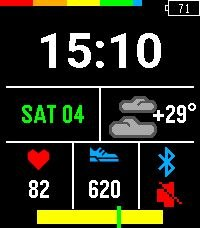
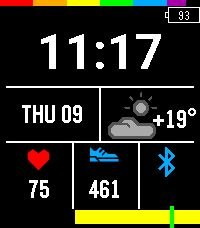
daylight bar: hour ticks, helper functions, AGENTS.md
- Replace inline daylight bar drawing with dedicated draw_daylight_bar()
  with helper functions time_to_min() and daybar_tick_x()
- Add 12 hour tick marks at :00 of each hour, black on yellow segment
  and yellow on dark segment, drawn on top of the green marker
- Switch rainbow final segment to GColorImperialPurple (dark purple
  #550055) — the former ARGB(155,77,255) produced light lavender
  that looked near-white on real hardware
- Remove init_weather_timer_handler (was duplicating the first fetch
  by bypassing weather_due gate — the immediate-on-subscribe tick
  already handles the initial geolocate)
- Add AGENTS.md with project architecture, weather protocol, drawing
  conventions, SDK reference, and known quirks

diff --git a/src/c/main.c b/src/c/main.c
@@ -131,6 +131,54 @@ static void draw_bitmap(GContext *ctx, GBitmap *bm, int x, int y) {
   graphics_context_set_compositing_mode(ctx, GCompOpAssign);
 }
 
+// ---- Daylight bar helpers ----
+
+// Convert hour + minute to minutes from midnight.
+static int time_to_min(int hour, int minute) {
+  return hour * 60 + minute;
+}
+
+// X-pixel position of a time (in minutes from midnight) within the
+// 12-hour (720-minute) daylight window starting at win_start.
+// Returns [0, W-1].
+static int daybar_tick_x(int time_min, int win_start) {
+  return clamp_int(round_div((time_min - win_start) * W, 720), 0, W - 1);
+}
+
+// Draw the full daylight bar: greyD background, yellow day-range,
+// green current-time marker, and 12 hour ticks (black on yellow,
+// yellow on dark).  Called from layer_update_proc.
+static void draw_daylight_bar(GContext *ctx, const struct tm *t) {
+  if (!s_have_sun) return;
+
+  const int sr = time_to_min(s_sunrise_h, s_sunrise_m);
+  const int ss = time_to_min(s_sunset_h, s_sunset_m);
+  const int cur = time_to_min(t->tm_hour, t->tm_min);
+  const int noon = (sr + ss) / 2;
+  const int win_start = (cur < noon) ? (noon - 720) : noon;
+
+  // Background — full-width grayD strip
+  fill_rect(ctx, C_GRAYD, 0, 210, W, 14);
+
+  // Daylight segment — yellow between sunrise and sunset
+  const int sx = daybar_tick_x(sr, win_start);
+  const int ex = daybar_tick_x(ss, win_start);
+  fill_rect(ctx, C_YELLOW, sx, 210, ex - sx, 14);
+
+  // Current-time marker — green, 4×22 px, drawn BEFORE ticks
+  const int mark_x = clamp_int(daybar_tick_x(cur, win_start), 0, W - 4);
+  fill_rect(ctx, C_GREEN, mark_x, 206, 4, 22);
+
+  // Hour ticks — 12 strokes at :00 of each hour inside the window.
+  // Colour inverts against the bar: black on yellow, yellow on dark.
+  const int first_hour = ((win_start + 59) / 60) * 60;  // ceil to next :00
+  for (int m = first_hour; m < win_start + 720; m += 60) {
+    const int x = daybar_tick_x(m, win_start);
+    const bool in_daylight = (m >= sr && m <= ss);
+    fill_rect(ctx, in_daylight ? C_BLACK : C_YELLOW, x, 210, 1, 14);
+  }
+}
+
 // Open-Meteo weather_code -> icon resource (mirrors weatherIcon() in the JS).
 static uint32_t weather_icon_resource(int code) {
   if (code == 0) return RESOURCE_ID_IC_SUNNY;       // Clear sky
@@ -255,27 +303,8 @@ static void layer_update_proc(Layer *layer, GContext *ctx) {
   draw_bitmap(ctx, s_connected ? s_bm_bt : s_bm_bt_off, center5 - 8, 147);
   if (quiet_time_is_active()) draw_bitmap(ctx, s_bm_quiet, center5 - 9, 182);
 
-  // DAYLIGHT BAR — 12-hour window centered on astronomical noon
-  //   AM: [midnight, noon]  PM: [noon, midnight]  (astronomical)
-  if (s_have_sun) {
-    const int sr = s_sunrise_h * 60 + s_sunrise_m;   // minutes from midnight
-    const int ss = s_sunset_h * 60 + s_sunset_m;
-    const int cur = t->tm_hour * 60 + t->tm_min;
-    const int noon = (sr + ss) / 2;
-
-    const bool isAM = (cur < noon);
-    const int winStart = isAM ? (noon - 12 * 60) : noon;
-    const int winLen = 12 * 60;
-
-    fill_rect(ctx, C_GRAYD, 0, 210, W, 14);
-    const int sx = clamp_int(round_div((sr - winStart) * W, winLen), 0, W);
-    const int ex = clamp_int(round_div((ss - winStart) * W, winLen), 0, W);
-    fill_rect(ctx, C_YELLOW, sx, 210, ex - sx, 14);
-
-    const int markX = round_div((cur - winStart) * W, winLen);
-    const int markClamped = clamp_int(markX, 0, W - 4);
-    fill_rect(ctx, C_GREEN, markClamped, 206, 4, 22);
-  }
+  // DAYLIGHT BAR — 12-hour window with hour ticks
+  draw_daylight_bar(ctx, t);
 }
 
 // ---------------------------------------------------------------------------

diff --git a/AGENTS.md b/AGENTS.md
@@ -1,0 +1,136 @@
+# Project-specific agent instructions — Utilitarianism
+
+Pure-C Pebble watchface for the **emery** (Pebble Time 2, 200×228 colour) display.
+
+## Architecture
+
+```
+src/c/main.c         All drawing, sensors, orchestration (C)
+src/pkjs/index.js    Weather + location relay (phone-side JS)
+resources/           PNG icons + PDC weather vectors
+```
+
+C does everything on-watch: time, date, battery (rainbow + badge), grid, weather icon/temperature, heart rate, steps, bluetooth / quiet-time, and the daylight bar with hour ticks. The phone (`PKJS`) only handles what the watch cannot reach: **GPS + HTTP** (Open-Meteo weather).
+
+## Weather protocol (C ↔ PKJS)
+
+Messages are AppMessage with auto-generated keys (`message_keys.auto.h` / PKJS global `messageKeys`).
+
+| Key                  | Direction   | Purpose                                    |
+|----------------------|-------------|--------------------------------------------|
+| `REQUEST_WEATHER`    | C → PKJS   | `0` = geolocate + fetch · `1` = cache only |
+| `WEATHER_CODE`       | PKJS → C   | Open-Meteo WMO weather code (int)          |
+| `WEATHER_TEMP`       | PKJS → C   | Rounded current temp (°C, int)             |
+| `WEATHER_FEELS_LIKE` | PKJS → C   | Rounded apparent temp (°C, int)            |
+| `WEATHER_SUNRISE_H/M`| PKJS → C   | Sunrise hour (uint8) / minute (uint8)      |
+| `WEATHER_SUNSET_H/M` | PKJS → C   | Sunset hour / minute                       |
+
+### Cadence (all in C, no pkjs-initiated fetches)
+
+- **Initial fetch:** the tick timer fires once immediately on subscribe (`tick_timer_service_subscribe`). `weather_due()` returns true (no success yet). Mode 0 (geolocate).
+- **Hour change:** detected in `tick_handler` via `s_last_hour`. Mode 0.
+- **15-minute refreshes:** `weather_due()` checks `time(NULL) - s_last_weather_success >= 900`. If true, mode 1 (cached coords — no GPS).
+- **Retry on failure:** `s_last_weather_success` is only updated on successful `WEATHER_*` inbox. On failure (no inbox, busy clears via 60s timeout) `weather_due()` stays true and the next minute tick retries.
+
+### Guards
+
+- **`s_weather_busy`** — prevents overlapping triggers while a request is in flight.
+- **`s_busy_clear_timer`** (60 s) — failsafe: PKJS swallows HTTP errors and never answers, so without this timer `busy` would stick forever. On timeout `busy` drops and the next tick retries.
+- **`weather_due()`** — 15-minute refresh gate, gated only in `tick_handler` (not in `send_weather_request` directly — add it if adding a new fetch path).
+
+## Drawing
+
+### Colors
+
+`GColor8` (union over `a:2, r:2, g:2, b:2`, packed little-endian). Compound literals from `GColorFromRGB()` are NOT compile-time constants for `static const` initializers. Use the `ARGB(r,g,b)` macro:
+
+```c
+#define ARGB(r,g,b) ((uint8_t)((0xC0u) | ((r>>6)<<4) | ((g>>6)<<2) | (b>>6)))
+static const GColor C_FOO = {.argb = ARGB(128,64,32)};
+```
+
+For named palette colours, use the `*ARGB8` literal (e.g. `GColorImperialPurpleARGB8`), not the macro.
+
+### Integer-only math
+
+All geometry uses `int`, never `float`/`double`. Rounding uses `round_div(a,b)` (nearest, half away from zero). The Pebble SDK toolchain does not link soft-float by default; using floats would require extra `-lm` linkage.
+
+### Daylight bar functions
+
+- `time_to_min(hour, minute)` — minutes from midnight.
+- `daybar_tick_x(time_min, win_start)` — pixel `x` in [0, W‑1] within the 12‑hour window.
+- `draw_daylight_bar(ctx, tm*)` — draws the whole bar (grayD background, yellow daylight segment, green current-time marker, 12 hour‑ticks at `:00` each). Tick colours invert: black on yellow, yellow on dark.
+
+### Text centering
+
+`draw_text_centered(ctx, text, font, color, x0, x1, y)` uses `GTextAlignmentCenter` → no manual width measurement needed.
+
+### Bitmaps (PNG)
+
+Always set `GCompOpSet` compositing for PNG icons (they have transparent backgrounds). Restore to `GCompOpAssign` afterwards.
+
+## PKJS notes
+
+- The runtime lacks `fetch` — use `XMLHttpRequest` with the patched `setRequestHeader`/`getAllResponseHeaders` (workarounds for trailing‑CRLF bugs in the phone app’s proxy).
+- `navigator.geolocation.getCurrentPosition` is available via the phone app’s WebView.
+- Coordinates are cached in PKJS memory (`lastLat`/`lastLon`). Mode‑1 requests reuse the cache.
+- Async code uses `.then()` chains, not `async/await` (webpack may not transpile).
+
+## Pebble SDK reference
+
+The SDK is at `/home/nik/.local/share/pebble-sdk/SDKs/4.17/sdk-core/pebble/`.
+Each platform has its own `include/pebble.h` which bundles every public API.
+For **emery** (our target):
+
+```
+/home/nik/.local/share/pebble-sdk/SDKs/4.17/sdk-core/pebble/emery/include/pebble.h
+```
+
+### How to check if an API exists
+
+```bash
+grep -n 'function_name' /home/nik/.local/share/pebble-sdk/SDKs/4.17/sdk-core/pebble/emery/include/pebble.h
+```
+
+Or for macros, constants, and colour definitions:
+
+```bash
+grep -n 'GColorPurple\|RESOURCE_ID' /home/nik/.local/share/pebble-sdk/SDKs/4.17/sdk-core/pebble/emery/include/gcolor_definitions.h
+```
+
+### Auto-generated headers (build-time)
+
+| File | Purpose |
+|------|---------|
+| `build/include/message_keys.auto.h` | `extern uint32_t MESSAGE_KEY_*` for C |
+| `build/emery/src/resource_ids.auto.h` | `#define RESOURCE_ID_*` (icons, fonts) |
+| `build/js/message_keys.json` | name→id mapping, consumed by PKJS webpack |
+
+After changing `messageKeys` in `package.json`, run `pebble build` once to
+regenerate these files before trusting autocomplete or static analysis.
+
+### Font keys
+
+Emery system fonts (from `pebble_fonts.h`):
+
+| JS name | C `FONT_KEY_*` |
+|---------|----------------|
+| `Roboto-Bold` 49 | `FONT_KEY_ROBOTO_BOLD_SUBSET_49` |
+| `Gothic-Bold` 28 | `FONT_KEY_GOTHIC_28_BOLD` |
+| `Gothic-Regular` 14 | `FONT_KEY_GOTHIC_14` |
+
+Full list: grep `FONT_KEY_` in the emery `pebble_fonts.h`.
+
+### Build
+
+```bash
+pebble build                                 # debug: pebble build --debug
+pebble install --emulator emery               # run in QEMU
+pebble install --phone <ip>                   # install to phone app
+```
+
+## Known issues / quirks
+
+- The linker RWX‑segment warning is a standard Pebble ELF artefact; ignore it.
+- `U: pkjs ready` + immediate geolocate is normal — it's the watch's C‑side `tick_handler` firing on subscribe.
+- The `init_weather_timer_handler` and `s_init_timer` were removed: the immediate tick (fires on subscribe) does the initial fetch, and all paths go through the single `tick_handler → weather_due → send_weather_request` gate. Do NOT add a separate init timer unless the runtime changes.